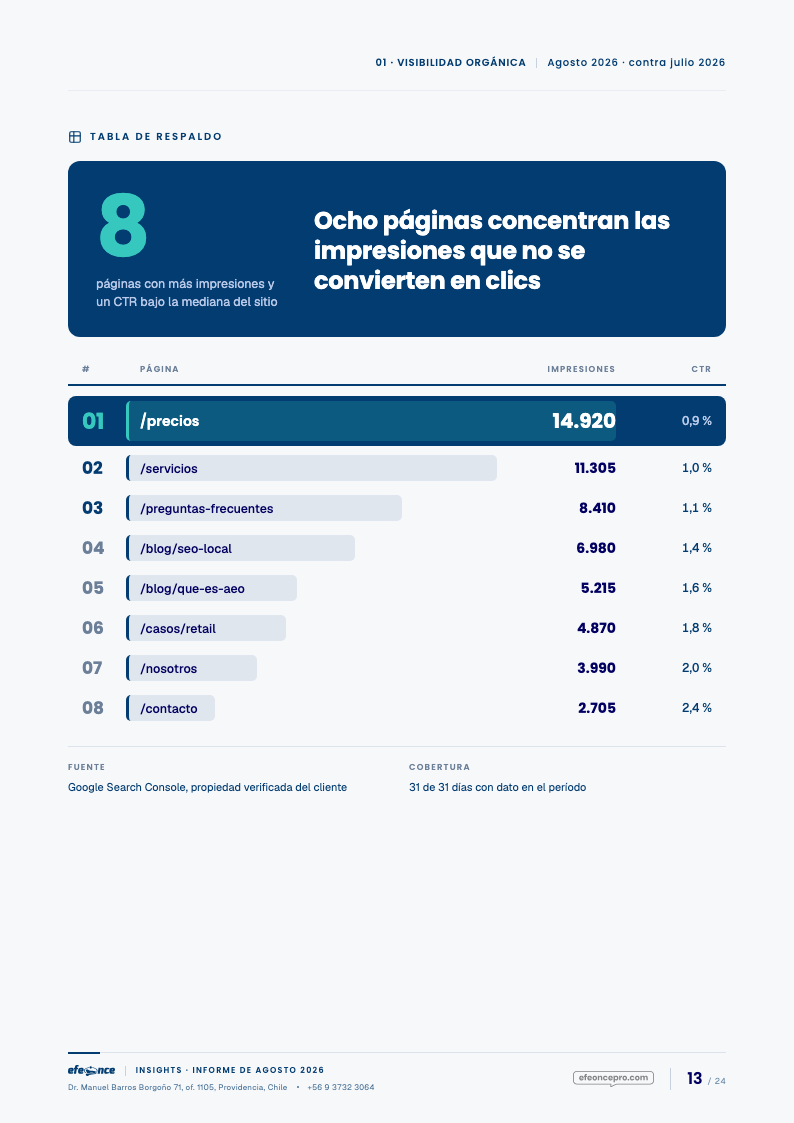
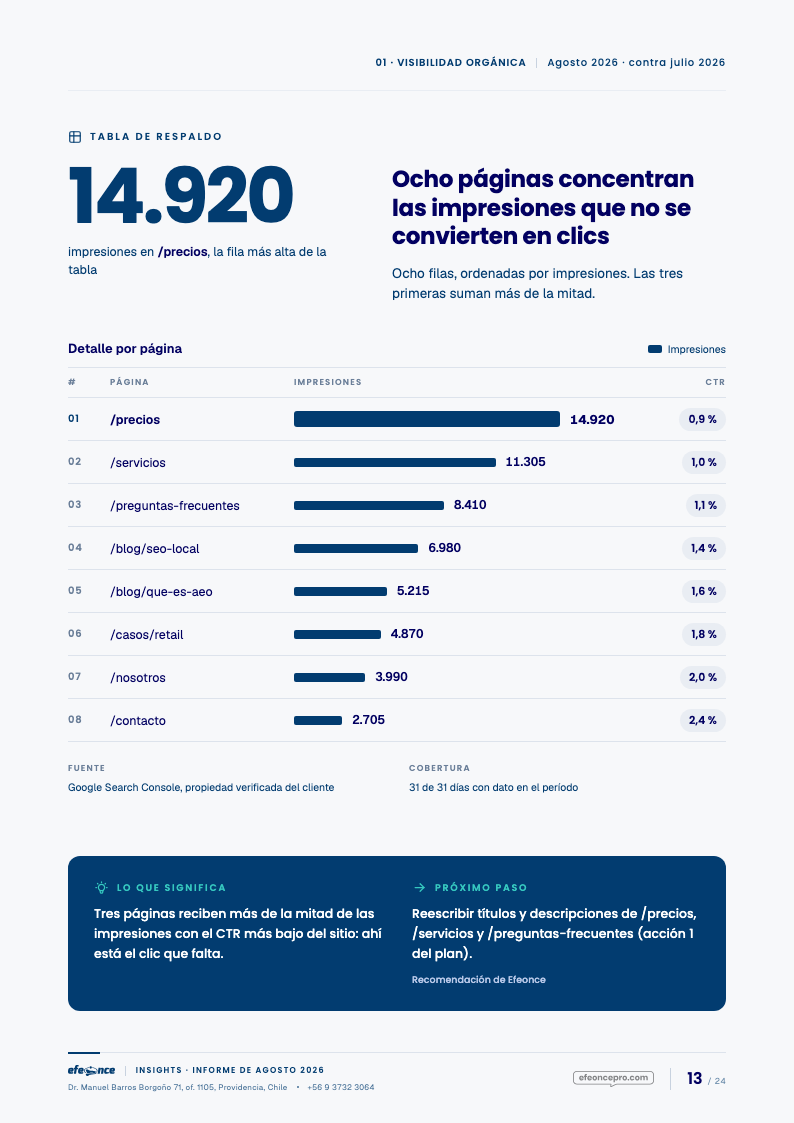
feat(insights): TASK-1889 — tabla de respaldo con la anatomía de la evidencia aprobada
Crítica de diseño pedida por el operador («no se ve premium»): la versión
anterior cargaba navy arriba (cabecera y fila líder), dejaba vacío el último
tercio y sus barras pálidas detrás del texto leían como interfaz. Se rehace
con la anatomía de Premium-Evidencia:

- Cifra protagonista con significado: el valor de la fila más alta de la
  tabla completa, con su bajada («impresiones en /precios, la fila más alta
  de la tabla»), calculada por el mapper; tesis a la derecha, sobre papel.
- Barras finas navy con el valor al final (largo desde el dato, escala de la
  tabla completa); la fila máxima sólo gana cuerpo, sin banda navy.
- Segunda columna en pastilla gris, leyenda, procedencia Fuente/Cobertura.
- Navy únicamente en el panel de cierre «Lo que significa / Próximo paso»
  (opcional: aparece cuando el plan trae la lectura).

Gate visual scoped re-congelado (20/20 a 0 px, delta declarado); 405 tests
de render y composer verdes.

Sin push.

diff --git a/src/lib/artifact-composer/catalogs/insights-report/report-table.html b/src/lib/artifact-composer/catalogs/insights-report/report-table.html
@@ -3,16 +3,15 @@
 <head>
 <meta charset="utf-8" />
 <!--
-  ReportTablePage — tabla de respaldo del informe A4 (TASK-1889). Sin página propia en el canvas:
-  toma la gramática aprobada — cifra protagonista (cuántas filas respaldan el capítulo), título que
-  afirma, filas con ranking y la primera columna de valor con barra proporcional, y la procedencia en
-  las columnas «Unidad · Fuente» de las páginas de gráfico. Cabecera navy, tablero de barras y la
-  fila líder (la que alcanza el máximo de la tabla completa) como banda navy.
+  ReportTablePage — tabla de respaldo del informe A4 (TASK-1889). Sin página propia en el canvas: sigue
+  la anatomía de la página de evidencia aprobada (`Premium-Evidencia`) — cifra y tesis sobre papel,
+  evidencia con barras finas y el valor al final, procedencia y panel navy de cierre (si el plan trae
+  la lectura). El navy aparece sólo en el cierre, como en todas las páginas aprobadas.
 
-  La barra SALE DEL DATO: el resolver lee el número impreso de cada fila y lo escala contra el máximo
-  de la tabla completa (`barScaleMax`, lo pasa el mapper) para que dos páginas de la misma tabla no se
-  contradigan. Una fila sin número legible queda sin barra; nunca se dibuja una barra inventada. Una
-  tabla NO es una figura: se lee y se audita; la barra sólo ayuda a comparar.
+  La cifra protagonista es el valor de la fila más alta de la tabla completa, con su bajada: la calcula
+  el mapper del dato, nunca se escribe. Las barras SALEN DEL DATO (`report-table-bar`, escala de la
+  tabla completa) y el ranking continúa entre páginas (`report-table-rank`). Una fila sin número
+  legible queda sin barra. Una tabla NO es una figura: se lee y se audita; la barra ayuda a comparar.
 -->
 <link rel="stylesheet" href="report-tokens.css" />
 <link rel="stylesheet" href="report-fonts.css" />
@@ -63,40 +62,33 @@
     color: var(--axis-report-role-labelMuted);
   }
 
-  /* Cabecera navy: la cifra contada y el título afirman antes de la primera fila. */
-  .table-hero {
-    margin-top: 16px;
-    padding: 26px 28px;
-    border-radius: 12px;
-    background: var(--axis-report-role-paperAccent);
-    color: var(--axis-report-role-navyInk);
-    display: grid;
-    grid-template-columns: 190px minmax(0, 1fr);
-    gap: 28px;
-    align-items: center;
-  }
-
-  .table-hero .hero-count { gap: 8px; }
-
-  .table-hero .hero-figure { font-size: 84px; color: var(--axis-report-role-navyAccent); }
-
-  .table-hero .hero-figure-text { color: var(--axis-report-role-navyMuted); }
-
-  .table-hero .hero-title { font-size: 24px; color: var(--axis-report-role-navyInk); }
-
-  .table-continued { margin: 10px 0 0; font-size: 11px; font-style: italic; color: var(--axis-report-role-navyMuted); }
+  .table-continued { margin: 0; font-size: 11px; font-style: italic; color: var(--axis-report-role-labelMuted); }
 
   .table-continued:empty { display: none; }
 
-  /* Tablero: cada fila es una barra. Columnas en px (nunca % con gap). */
-  .board { margin-top: 26px; display: flex; flex-direction: column; gap: 4px; font-variant-numeric: tabular-nums; }
+  /* Anatomía de la página de evidencia aprobada: cifra + tesis sobre papel, evidencia, cierre navy. */
+  .table-hero { margin-top: 16px; display: grid; grid-template-columns: 290px minmax(0, 1fr); gap: 34px; align-items: start; }
+
+  .table-hero .hero-figure-text { max-width: 260px; }
+
+  .table-hero .hero-figure-text strong { font-weight: 600; color: var(--axis-report-role-paperInk); }
+
+  .board { margin-top: 36px; display: flex; flex-direction: column; }
+
+  .board-caption { display: flex; justify-content: space-between; align-items: center; padding-bottom: 10px; }
+
+  .board-title { font-size: 13px; font-weight: 600; color: var(--axis-report-role-paperInk); }
+
+  .board-legend { display: flex; align-items: center; gap: 6px; font-size: 10.5px; color: var(--axis-report-role-paperAccent); }
+
+  .board-legend .swatch { width: 14px; height: 8px; border-radius: 2px; background: var(--axis-report-role-dataCurrentOnPaper); }
 
   .board-head,
-  .board-row { display: grid; grid-template-columns: 46px minmax(0, 1fr) 118px 84px; column-gap: 12px; align-items: center; }
+  .board-row { display: grid; grid-template-columns: 26px 168px minmax(0, 1fr) 76px; column-gap: 16px; align-items: center; }
 
   .board-head {
-    padding: 0 14px 8px;
-    border-bottom: 2px solid var(--axis-report-role-paperAccent);
+    padding: 8px 0;
+    border-top: 1px solid var(--axis-report-role-rule);
     font-family: var(--axis-report-type-display);
     font-size: 8.5px;
     font-weight: 600;
@@ -105,49 +97,63 @@
     color: var(--axis-report-role-labelMuted);
   }
 
-  .board-head .col:nth-child(n + 3) { text-align: right; }
+  .board-head .col:last-child { text-align: right; }
 
-  .board-rows { display: flex; flex-direction: column; gap: 4px; margin-top: 6px; }
+  .board-row { padding: 9px 0; border-top: 1px solid var(--axis-report-role-rule); }
 
-  .board-row { position: relative; min-height: 36px; padding: 0 14px; border-radius: 8px; }
+  .board-rows .board-row:last-child { border-bottom: 1px solid var(--axis-report-role-rule); }
 
-  /* La barra vive detrás de la fila, en el carril entidad + valor. Su ancho sale del dato. */
-  .row-lane { position: absolute; left: 58px; right: 110px; top: 5px; bottom: 5px; }
+  .row-rank { font-family: var(--axis-report-type-display); font-size: 10px; font-weight: 600; letter-spacing: 0.08em; font-variant-numeric: tabular-nums; color: var(--axis-report-role-labelMuted); }
 
-  .row-bar { position: absolute; left: 0; top: 0; bottom: 0; border-radius: 5px; background: rgba(var(--axis-report-role-paperAccent-rgb), 0.09); border-left: 3px solid var(--axis-report-role-dataCurrentOnPaper); }
+  .row-entity { font-size: 12.5px; color: var(--axis-report-role-paperInk); overflow-wrap: anywhere; }
 
-  .row-rank, .row-entity, .row-value, .row-second { position: relative; }
+  /* Barra fina con el valor al final (como la evidencia aprobada). Su largo sale del dato. */
+  .row-measure { display: flex; align-items: center; gap: 10px; }
 
-  .row-rank { font-family: var(--axis-report-type-display); font-size: 17px; font-weight: 700; letter-spacing: -0.01em; color: var(--axis-report-role-labelMuted); }
+  /* El carril no es una caja: la barra es hija directa de la celda y el valor la sigue. */
+  .row-lane { display: contents; }
 
-  .row-rank.rank--top { color: var(--axis-report-role-paperAccent); }
+  .row-bar { display: block; flex: 0 0 auto; height: 9px; border-radius: 2px; background: var(--axis-report-role-dataCurrentOnPaper); }
 
-  .row-entity { font-size: 12.5px; font-weight: 500; color: var(--axis-report-role-paperInk); }
+  .row-value { flex-shrink: 0; font-size: 12px; font-weight: 600; font-variant-numeric: tabular-nums; color: var(--axis-report-role-paperInk); }
 
-  .row-value { text-align: right; font-family: var(--axis-report-type-display); font-size: 14px; font-weight: 700; color: var(--axis-report-role-paperInk); }
+  .row-second-cell { justify-self: end; }
 
-  .row-second { text-align: right; font-size: 12px; font-weight: 500; color: var(--axis-report-role-paperAccent); }
+  .row-second {
+    display: inline-flex;
+    padding: 3px 9px;
+    border-radius: 999px;
+    background: var(--axis-report-role-ruleSoft);
+    font-family: var(--axis-report-type-display);
+    font-size: 11px;
+    font-weight: 600;
+    font-variant-numeric: tabular-nums;
+    color: var(--axis-report-role-paperInk);
+    white-space: nowrap;
+  }
 
-  /* La fila líder (alcanza el máximo de la tabla completa) se vuelve banda navy. */
-  .board-row.row--lead { min-height: 50px; background: var(--axis-report-role-paperAccent); }
+  /* La fila que alcanza el máximo de la tabla completa: barra y cifra con más cuerpo. Nada más. */
+  .row--lead .row-rank { color: var(--axis-report-role-paperAccent); }
 
-  .row--lead .row-bar { background: rgba(var(--axis-report-role-navyAccent-rgb), 0.22); border-left-color: var(--axis-report-role-navyAccent); }
+  .row--lead .row-entity { font-weight: 600; }
 
-  .row--lead .row-rank { font-size: 22px; color: var(--axis-report-role-navyAccent); }
+  .row--lead .row-bar { height: 16px; border-radius: 3px; }
 
-  .row--lead .row-entity { font-family: var(--axis-report-type-display); font-size: 14px; font-weight: 600; color: var(--axis-report-role-navyInk); }
+  .row--lead .row-value { font-size: 13px; font-weight: 700; }
 
-  .row--lead .row-value { font-size: 20px; color: var(--axis-report-role-navyInk); }
-
-  .row--lead .row-second { color: var(--axis-report-role-navyMuted); }
-
-  .provenance { margin-top: 20px; padding-top: 14px; border-top: 1px solid var(--axis-report-role-rule); display: grid; grid-template-columns: repeat(2, minmax(0, 1fr)); gap: 24px; }
+  .provenance { margin-top: 20px; display: grid; grid-template-columns: repeat(2, minmax(0, 1fr)); gap: 24px; }
 
   .provenance-item { display: flex; flex-direction: column; gap: 5px; }
 
   .provenance-item:empty { display: none; }
 
-  .provenance-text { font-size: 11px; line-height: 1.5; color: var(--axis-report-role-paperAccent); }
+  .provenance-text { font-size: 10.5px; line-height: 1.5; color: var(--axis-report-role-paperAccent); }
+
+  .closing-kind { display: contents; }
+
+  .closing--table { grid-auto-flow: column; grid-auto-columns: minmax(0, 1fr); }
+
+  .closing--table:empty { display: none; }
 </style>
 </head>
 <body>
@@ -167,32 +173,42 @@
 
     <div class="table-hero">
       <div class="hero-count">
-        <span class="hero-figure" data-slot="heroFigure">8</span>
-        <span class="hero-figure-text" data-slot="heroText">filas de evidencia respaldan esta tabla</span>
+        <span class="hero-figure" data-slot="heroFigure">14.920</span>
+        <span class="hero-figure-text" data-slot="heroText">impresiones en <strong>/precios</strong>, la fila más alta de la tabla</span>
       </div>
       <div class="hero-heading">
         <h1 class="hero-title" data-slot="tableTitle">Ocho páginas concentran las impresiones que no se convierten en clics</h1>
+        <p class="hero-lead" data-slot="lead">Ocho filas, ordenadas por impresiones.</p>
         <p class="table-continued" data-slot="continuationLabel">Continúa de la página anterior</p>
       </div>
     </div>
 
-    <div class="board">
+    <section class="board">
+      <div class="board-caption"><span class="board-title" data-slot="boardTitle">Detalle por página</span><span class="board-legend" data-slot="legend"><span class="swatch"></span><span data-slot-field="label">Impresiones</span></span></div>
       <div class="board-head" data-slot="tableColumns"><span class="col"><span data-slot-field="label">#</span></span></div>
       <div class="board-rows" data-slot="tableRows">
         <div class="board-row">
-          <span class="row-lane" data-slot-field="bar"><span class="row-bar"></span></span>
           <span class="row-rank" data-slot-field="rank">01</span>
           <span class="row-entity" data-slot-field="entity">/precios</span>
-          <span class="row-value" data-slot-field="valueA">14.920</span>
-          <span class="row-second" data-slot-field="valueB">0,9 %</span>
+          <span class="row-measure"><span class="row-lane" data-slot-field="bar"><span class="row-bar"></span></span><span class="row-value" data-slot-field="valueA">14.920</span></span>
+          <span class="row-second-cell"><span class="row-second" data-slot-field="valueB">0,9 %</span></span>
         </div>
       </div>
-    </div>
+    </section>
 
     <div class="provenance">
       <div class="provenance-item" data-slot="source"><span class="col-label" data-slot-field="label">Fuente</span><span class="provenance-text" data-slot-field="text">Google Search Console</span></div>
       <div class="provenance-item" data-slot="coverage"><span class="col-label" data-slot-field="label">Cobertura</span><span class="provenance-text" data-slot-field="text">31 de 31 días con dato</span></div>
     </div>
+
+    <div class="grow"></div>
+
+    <div class="closing closing--table" data-slot="closing"><div class="closing-block">
+        <span class="closing-label"><span class="closing-kind" data-slot-field="kind"><svg class="stroke-icon closing-icon--measure" width="15" height="15" viewBox="0 0 24 24" aria-hidden="true"><path d="M3 12h1m8 -9v1m8 8h1m-15.4 -6.4l.7 .7m12.1 -.7l-.7 .7"></path><path d="M9 16a5 5 0 1 1 6 0a3.5 3.5 0 0 0 -1 3a2 2 0 0 1 -4 0a3.5 3.5 0 0 0 -1 -3"></path><path d="M9.7 17h4.6"></path></svg><svg class="stroke-icon closing-icon--action" width="15" height="15" viewBox="0 0 24 24" aria-hidden="true"><path d="M5 12h14"></path><path d="M13 18l6 -6"></path><path d="M13 6l6 6"></path></svg></span><span data-slot-field="label">Lo que significa</span></span>
+        <p class="closing-text" data-slot-field="text">Lo que la tabla muestra.</p>
+        <span class="closing-signature" data-slot-field="signature">Recomendación de Efeonce</span>
+      </div></div>
+
     <footer class="paper-foot">
       <div class="paper-foot-rule"><span class="accent"></span><span class="line"></span></div>
       <div class="paper-foot-row">

diff --git a/src/lib/efeonce-insights/render/report-mapper.ts b/src/lib/efeonce-insights/render/report-mapper.ts
@@ -177,8 +177,25 @@ const chapterBodyPages = (
   })
 
   for (const table of chapter.tables) {
-    // La barra de la primera columna de valor se escala contra la tabla COMPLETA, no contra la página.
-    const scale = Math.max(0, ...table.rows.map(row => parsePrintedNumber(row[1]) ?? 0))
+    // La barra de la primera columna de valor se escala contra la tabla COMPLETA, no contra la página,
+    // y la cifra protagonista es el valor de la fila más alta de esa misma tabla.
+    const values = table.rows.map(row => parsePrintedNumber(row[1]))
+    const scale = Math.max(0, ...values.map(v => v ?? 0))
+    const leadIndex = scale > 0 ? values.findIndex(v => v === scale) : -1
+    const leadRow = leadIndex >= 0 ? table.rows[leadIndex]! : null
+    const entityColumn = table.columns[0] ?? L.tableEyebrow
+    const valueColumn = table.columns[1] ?? ''
+
+    const hero = leadRow
+      ? {
+          heroFigure: rejectIfLonger(String(leadRow[1]), 12, `${table.tableId}.heroFigure`),
+          heroText: rejectIfLonger(
+            `${valueColumn.toLowerCase()} ${L.tableLeadIn} <strong>${String(leadRow[0] ?? '—')}</strong>, ${L.tableLeadSuffix}`,
+            110,
+            `${table.tableId}.heroText`
+          )
+        }
+      : { heroFigure: String(table.rows.length), heroText: L.tableRowsText }
 
     chunkByCapacity(table.rows, CAPACITY.tableRows, (_r, i) => `${table.tableId}-r${i}`).forEach((rows, i) => {
       pages.push({
@@ -188,11 +205,13 @@ const chapterBodyPages = (
           slots: {
             ...running,
             eyebrow: L.tableEyebrow,
-            heroFigure: String(table.rows.length),
-            heroText: L.tableRowsText,
+            ...hero,
             tableTitle: rejectIfLonger(table.title, BUDGET.tableTitle, `${table.tableId}.title`),
+            ...(valueColumn ? { lead: L.tableRowsOrderedBy(table.rows.length, valueColumn) } : {}),
             // La continuación se declara: una tabla que sigue sin decirlo obliga a retroceder.
             ...(i > 0 ? { continuationLabel: L.tableContinued, rankOffset: String(i * CAPACITY.tableRows) } : {}),
+            boardTitle: rejectIfLonger(`${L.tableDetailBy} ${entityColumn.toLowerCase()}`, 48, `${table.tableId}.boardTitle`),
+            legend: { label: rejectIfLonger(valueColumn || entityColumn, 24, `${table.tableId}.legend`) },
             tableColumns: ['#', ...table.columns.slice(0, 3)].map(label => ({ label })),
             tableRows: rows.map(row => ({
               entity: String(row[0] ?? '—'),

diff --git a/src/lib/artifact-composer/catalogs/insights-report/resolvers.ts b/src/lib/artifact-composer/catalogs/insights-report/resolvers.ts
@@ -30,7 +30,12 @@ export const tableBarEffects = (item: Record<string, unknown>, slots: Record<str
   if (value === null || value < 0 || max <= 0) return [{ selector: ':field', remove: true }]
 
   const pct = Math.min(100, (value / max) * 100)
-  const effects: FieldEffect[] = [{ selector: '.row-bar', styleProp: 'width', styleValue: `${pct.toFixed(2)}%` }]
+
+  // El valor impreso va al FINAL de la barra (gramática de la evidencia aprobada): la barra ocupa su
+  // fracción de la celda descontando el lugar de la cifra (64 px + 10 px de aire).
+  const effects: FieldEffect[] = [
+    { selector: '.row-bar', styleProp: 'width', styleValue: `calc((100% - 74px) * ${(pct / 100).toFixed(4)})` }
+  ]
 
   if (value === max) effects.push({ selector: ':self', toneClass: 'row--lead', toneGroup: ['row--lead'] })
 
@@ -39,14 +44,12 @@ export const tableBarEffects = (item: Record<string, unknown>, slots: Record<str
 
 /**
  * Ranking de la fila en la tabla COMPLETA: `rankOffset` (lo pasa el mapper) + posición en la página.
- * Sin él, una tabla que continúa volvería a empezar en 01. Los tres primeros van en acento.
+ * Sin él, una tabla que continúa volvería a empezar en 01.
  */
 export const tableRankEffects = (index: number, slots: Record<string, unknown>): FieldEffect[] => {
   const offset = Number(slots.rankOffset ?? 0)
   const rank = (Number.isFinite(offset) ? offset : 0) + index + 1
   const effects: FieldEffect[] = [{ selector: ':field', asText: true, value: String(rank).padStart(2, '0') }]
-
-  if (rank <= 3) effects.push({ selector: ':field', toneClass: 'rank--top', toneGroup: ['rank--top'] })
 
   return effects
 }

diff --git a/src/lib/artifact-composer/__tests__/insights-editorial-resolvers.test.ts b/src/lib/artifact-composer/__tests__/insights-editorial-resolvers.test.ts
@@ -70,18 +70,17 @@ describe('resolvers editoriales de Insights (TASK-1889)', () => {
   it('la barra de la tabla sale del dato; la líder es la que alcanza el máximo de la tabla completa', () => {
     const slots = { barScaleMax: '14.920', tableRows: [{ valueA: '11.305' }, { valueA: '8.410' }] }
 
-    expect(tableBarEffects({ valueA: '7.460' }, slots)).toEqual([{ selector: '.row-bar', styleProp: 'width', styleValue: '50.00%' }])
+    expect(tableBarEffects({ valueA: '7.460' }, slots)).toEqual([
+      { selector: '.row-bar', styleProp: 'width', styleValue: 'calc((100% - 74px) * 0.5000)' }
+    ])
     expect(tableBarEffects({ valueA: '14.920' }, slots)).toContainEqual({ selector: ':self', toneClass: 'row--lead', toneGroup: ['row--lead'] })
     // En la página 2 la líder no está: ninguna fila se vuelve líder por ser la mayor DE LA PÁGINA.
     expect(tableBarEffects({ valueA: '11.305' }, slots).some(e => e.toneClass === 'row--lead')).toBe(false)
     expect(tableBarEffects({ valueA: '—' }, slots)).toEqual([{ selector: ':field', remove: true }])
   })
 
-  it('el ranking de la tabla continúa entre páginas y marca el top 3', () => {
-    expect(tableRankEffects(0, {})).toEqual([
-      { selector: ':field', asText: true, value: '01' },
-      { selector: ':field', toneClass: 'rank--top', toneGroup: ['rank--top'] }
-    ])
+  it('el ranking de la tabla continúa entre páginas', () => {
+    expect(tableRankEffects(0, {})).toEqual([{ selector: ':field', asText: true, value: '01' }])
     expect(tableRankEffects(0, { rankOffset: '16' })).toEqual([{ selector: ':field', asText: true, value: '17' }])
   })
 })

diff --git a/src/lib/efeonce-insights/render/report-mapper.test.ts b/src/lib/efeonce-insights/render/report-mapper.test.ts
@@ -206,7 +206,9 @@ describe('buildInsightReportPlanInput', () => {
 
     for (const page of pages) {
       // La misma escala en las dos páginas: la barra de /p0 no cambia de tamaño al pasar la hoja.
-      expect(page.slots).toMatchObject({ heroFigure: '30', barScaleMax: '3000', source: { label: 'Fuente' } })
+      // La cifra protagonista es el valor de la fila más alta de la tabla COMPLETA, con su bajada.
+      expect(page.slots).toMatchObject({ heroFigure: '3000', barScaleMax: '3000', source: { label: 'Fuente' }, legend: { label: 'Clics' } })
+      expect((page.slots as { heroText: string }).heroText).toBe('clics en <strong>/p29</strong>, la fila más alta de la tabla')
       expect((page.slots as { tableColumns: { label: string }[] }).tableColumns[0]).toEqual({ label: '#' })
     }
 

diff --git a/src/lib/copy/insights.ts b/src/lib/copy/insights.ts
@@ -217,6 +217,10 @@ export const GH_INSIGHTS = {
     methodology: 'Metodología',
     howMeasured: 'Cómo se midió',
     tableRowsText: 'filas de evidencia respaldan esta tabla',
+    tableLeadIn: 'en',
+    tableLeadSuffix: 'la fila más alta de la tabla',
+    tableDetailBy: 'Detalle por',
+    tableRowsOrderedBy: (rows: number, column: string) => `${rows} filas, en el orden del plan; la barra compara ${column.toLowerCase()}.`,
     limitsCountText: 'límites que esta edición declara antes de afirmar',
     essentials: 'Lo esencial del mes',
     thesisOfTheMonth: 'La tesis del mes',

diff --git a/scripts/frontend/baselines/artifact-composer/BASELINE_DELTAS.md b/scripts/frontend/baselines/artifact-composer/BASELINE_DELTAS.md
@@ -1,5 +1,15 @@
 # Artifact Composer — BASELINE_DELTAS (contrato de dos vías)
 
+## 2026-09-25 (e) — TASK-1889: la tabla vuelve a la anatomía de la evidencia aprobada
+
+Crítica de diseño (operador: «no se ve premium»): la versión anterior cargaba navy arriba (cabecera y
+fila líder) y dejaba vacío el último tercio; las barras pálidas detrás del texto leían como interfaz. Se
+rehace con la anatomía de `Premium-Evidencia`: cifra de la fila más alta y tesis sobre papel, barras finas
+con el valor al final, segunda columna en pastilla, procedencia y panel navy de cierre (si el plan trae la
+lectura). El navy aparece sólo en el cierre.
+
+- `templates-insights-report/ReportTablePage.png` — anatomía de evidencia
+
 ## 2026-09-25 (d) — TASK-1889: la tabla de respaldo gana punch
 
 Pedido del operador («la tabla necesita más punch»). Cabecera navy con la cifra contada en teal, tablero de
@@ -462,7 +472,7 @@ aparece está cubierto por la tabla de arriba):
 `sky/19-contraportada.png` · `sky/19-seguro.png` · `sky/20-cumplimiento.png` · `sky/21-economica.png` ·
 `sky/22-contraportada.png`
 
-<!-- manifest-digest: f659c5b36f484774683a13e59be0371a6cd0aadd034446160b80b73318f56731 -->
+<!-- manifest-digest: 161a8d1e74acc344218982a459b556503ff2c390c4398a78acb611c1926b1f58 -->
 
 Este ledger existe porque **un rebaseline silencioso es peor que no tener gate**: el gate se
 "arregla" promoviendo el baseline y nadie se entera.
